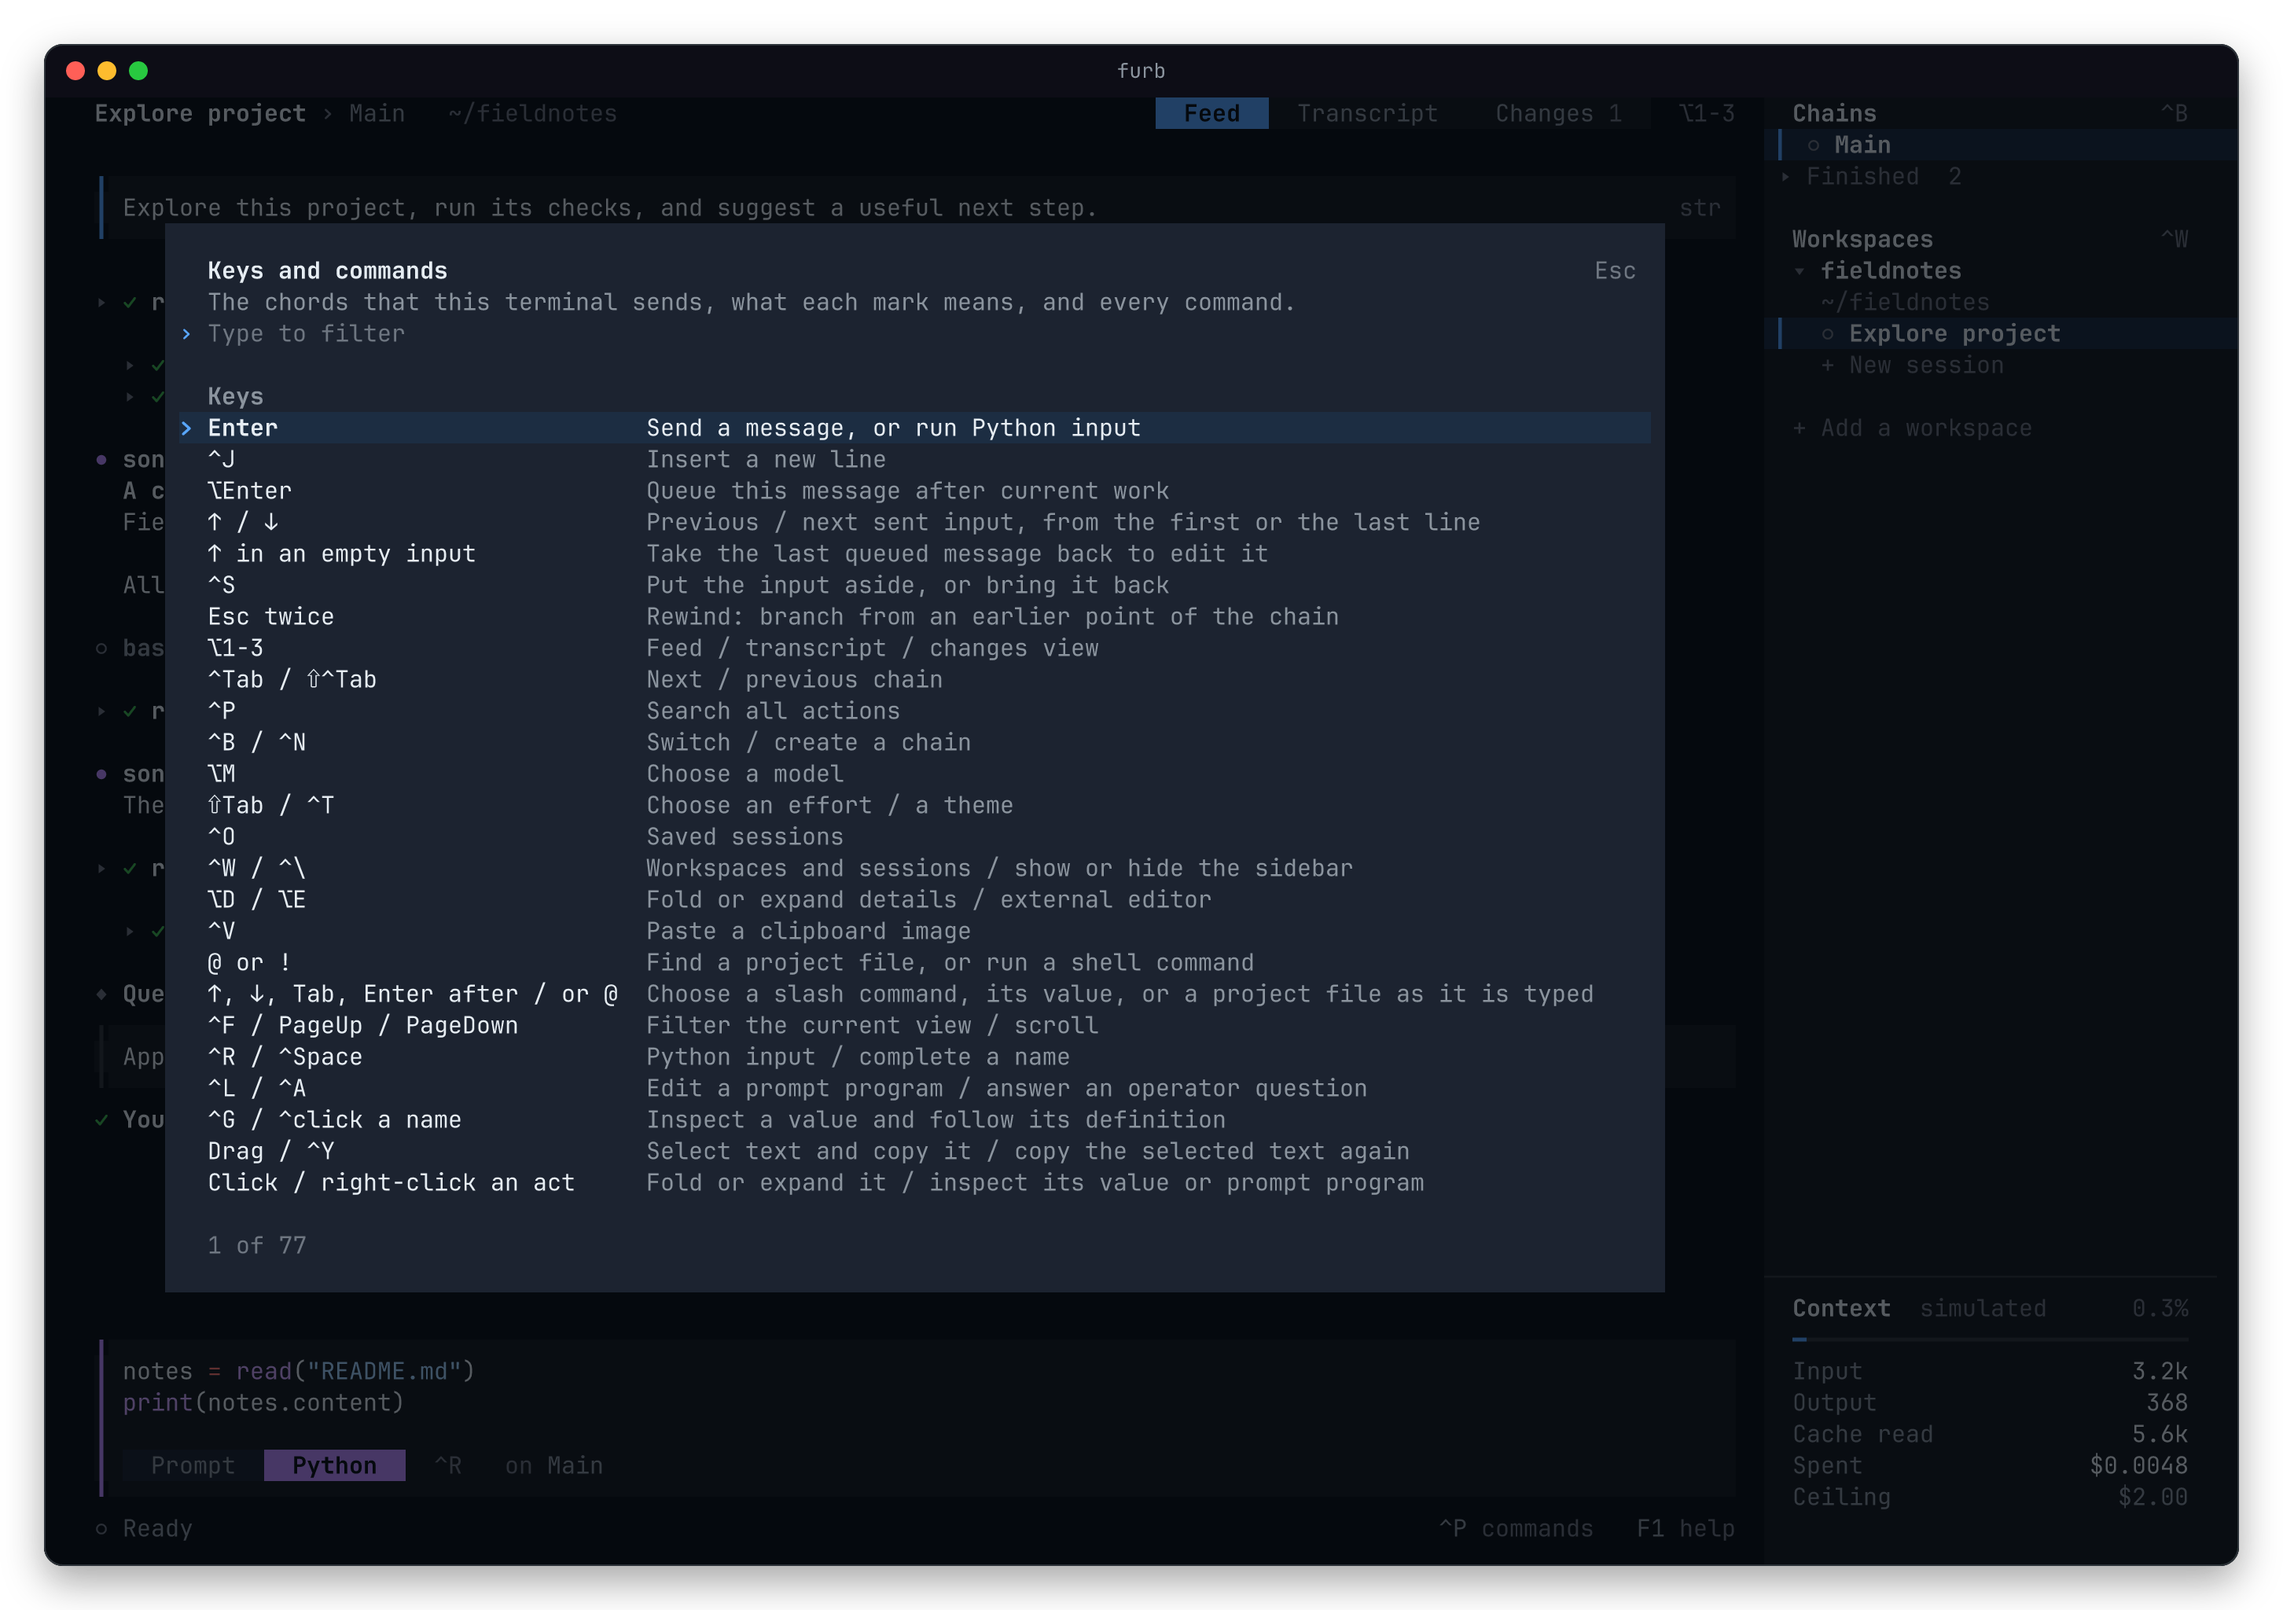
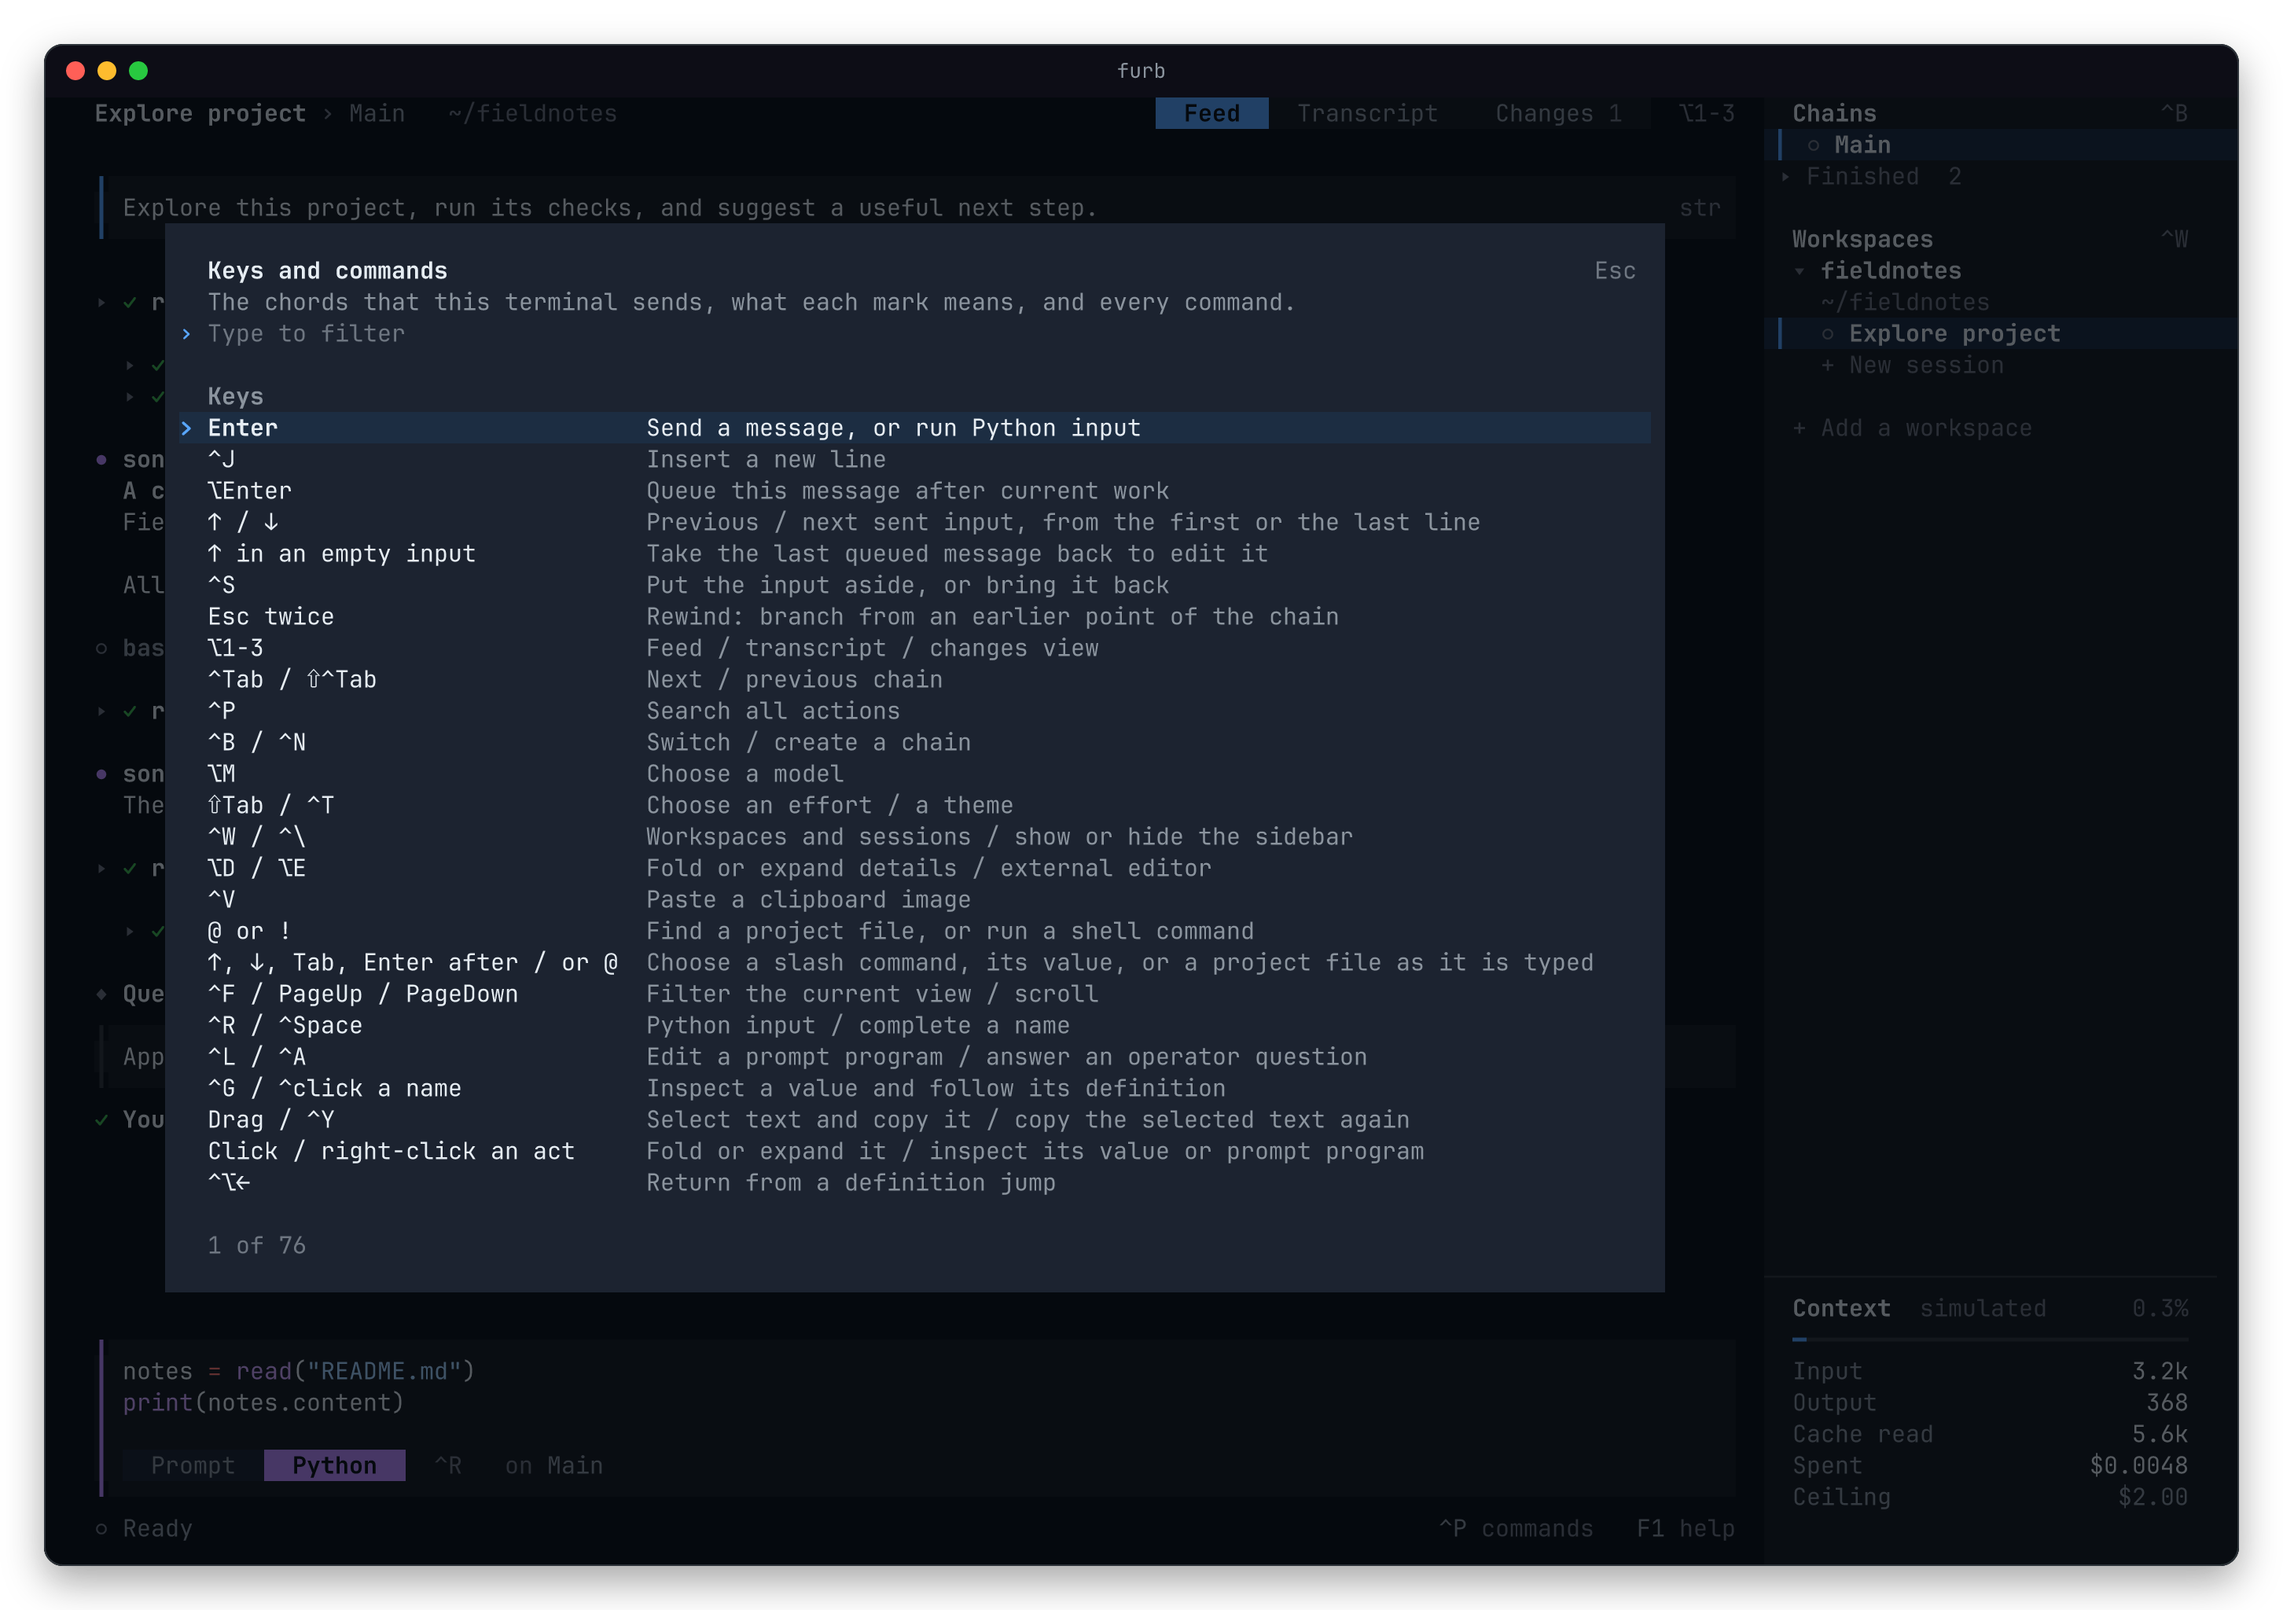
Fold the saved sessions of ⌃O into the workspaces of ⌃W
The picker of the workspaces now says of each session its state, the
time since its record was saved, its cost, and the size of its record,
which only the picker of ⌃O said. That picker, its builder in
sessions.ts, and its capture go. ⌃O opens the workspaces, as ⌃W does,
through one more press of the same binding.

The help and the picker of the workspaces are captured again. The tour
and the README say what the picker of the workspaces shows.

Claude-Session: https://claude.ai/code/session_01Luoyf6crfHuvNmZs94como

Changed region(s): [[0.093, 0.5, 0.7128, 0.75]]

diff --git a/tui/src/app.ts b/tui/src/app.ts
@@ -35,7 +35,7 @@ import { conversation } from "./conversation.ts";
 import { externalEditor, openFile } from "./editor.ts";
 import type { Extensions } from "./extensions.ts";
 import { shortenHome, shortenHomes } from "./files.ts";
-import { clip, count, dollars, elapsed, graphemes, kibibytes, modelName, share } from "./format.ts";
+import { ago, clip, count, dollars, elapsed, graphemes, kibibytes, modelName, share } from "./format.ts";
 import { type Action, bindings, chords, keys, presses, shown } from "./keys.ts";
 import { loadParsers } from "./parsers.ts";
 import {
@@ -51,7 +51,6 @@ import {
   views,
   working,
 } from "./session.ts";
-import { sessionChoices } from "./sessions.ts";
 import { publishShare } from "./share.ts";
 import {
   theme as c,
@@ -190,6 +189,20 @@ export interface AppOptions {
   quit(): void | Promise<void>;
   workspaces: Workspaces;
   extensions?: Extensions;
+}
+
+/** What the picker of the workspaces says of a session: its state, whether it is the current one, the time since
+ * its record was saved, its cost, and the size of its record. */
+export function sessionDetail(entry: SessionEntry, current: boolean): string {
+  return [
+    statusLabels[entry.status],
+    current ? "current" : "",
+    entry.modified ? ago(entry.modified) : "",
+    dollars(entry.cost ?? 0),
+    entry.size === undefined ? "" : kibibytes(entry.size),
+  ]
+    .filter(Boolean)
+    .join("   ");
 }
 
 /** An App on the session that the library selects, which a new App replaces for each session that the library
@@ -3136,7 +3149,7 @@ export class App {
             ...library.groups.flatMap((group) => [
               ...group.sessions.map((entry) => ({
                 label: entry.name,
-                detail: `${statusLabels[entry.status]}${library.current === entry ? "   current" : ""}`,
+                detail: sessionDetail(entry, library.current === entry),
                 status: entry.status,
                 heading: `${group.name}   ${shortenHome(group.directory)}`,
                 run: () => library.select(entry),
@@ -5364,7 +5377,6 @@ export class App {
     models: () => this.models(),
     effort: () => this.effortPicker(),
     themes: () => this.themes(),
-    sessions: () => void this.sessionPicker(),
     workspaces: () => void this.workspacePicker(),
     sidebar: () => this.options.workspaces.toggle(),
     details: () => this.details(),
@@ -5444,26 +5456,6 @@ export class App {
     w.save();
     this.render();
   }
-  /** The saved sessions of the workspace of the session, in a palette, which opens once the workspaces are read
-   * again. */
-  sessionPicker = (): Promise<void> => {
-    const library = this.options.workspaces;
-    return library
-      .refresh()
-      .then(() =>
-        this.openPalette(
-          "Sessions",
-          sessionChoices(
-            library.groupOf(),
-            (entry) => library.select(entry),
-            async () => {
-              await library.create();
-            },
-          ),
-        ),
-      )
-      .catch(this.report);
-  };
   /** The feed scrolled to the message of the operator before or after the top of the view. */
   private jumpMessage(step: number): void {
     const w = this.session;

diff --git a/tui/test/app.test.ts b/tui/test/app.test.ts
@@ -3,13 +3,12 @@ import { readFile, writeFile } from "node:fs/promises";
 import { dirname, join } from "node:path";
 import { createTestRenderer } from "@opentui/core/testing";
 import { until } from "../../bind/typescript/test/until.ts";
-import { App } from "../src/app.ts";
+import { App, sessionDetail } from "../src/app.ts";
 import { openEngine } from "../src/bridge.ts";
 import { demoLibrary, demoSession, removeDemoDirectories, seedDemo } from "../src/demo.ts";
 import { Preferences } from "../src/preferences.ts";
 import { Session } from "../src/session.ts";
-import { sessionChoices } from "../src/sessions.ts";
-import { Workspaces } from "../src/workspaces.ts";
+import { type SessionEntry, Workspaces } from "../src/workspaces.ts";
 import { composing } from "./composing.ts";
 import { idle } from "./idle.ts";
 import { transcriptOf } from "./transcript.ts";
@@ -317,14 +316,11 @@ test("resume preserves chains, programs, theme, and input drafts while unfinishe
   await library.refresh();
   // The replay of a saved record comes after the list, and the picker shows its state once it lands.
   await until(library, () => library.groups[0]?.sessions[0]?.status === "paused");
-  const choices = sessionChoices(
-    library.groups[0],
-    async () => {},
-    async () => {},
-  );
-  expect(choices[1]?.detail).toContain("KiB");
-  expect(choices[1]?.detail).toContain("Paused");
-  expect(choices).toHaveLength(2);
+  const saved = library.groups[0]?.sessions ?? [];
+  expect(saved).toHaveLength(1);
+  const detail = sessionDetail(saved[0] as SessionEntry, false);
+  expect(detail).toContain("KiB");
+  expect(detail).toContain("Paused");
   await library.dispose();
   const opened = await openEngine({ record, demo: true });
   const second = new Session(opened.engine, opened.host, true);

diff --git a/tui/src/keys.ts b/tui/src/keys.ts
@@ -96,12 +96,11 @@ export const keys = [
       { on: ["ctrl+t"], run: "themes", chord: "⌃T", command: "theme" },
     ],
   },
-  { chord: "⌃O", action: "Saved sessions", bindings: [{ on: ["ctrl+o"], run: "sessions" }] },
   {
     chord: "⌃W / ⌃\\",
     action: "Workspaces and sessions / show or hide the sidebar",
     bindings: [
-      { on: ["ctrl+w"], run: "workspaces", chord: "⌃W", command: "workspace" },
+      { on: ["ctrl+w", "ctrl+o"], run: "workspaces", chord: "⌃W", command: "workspace" },
       { on: ["ctrl+\\"], run: "sidebar", chord: "⌃\\", command: "sidebar" },
     ],
   },

diff --git a/tui/script/screenshots.ts b/tui/script/screenshots.ts
@@ -200,9 +200,6 @@ try {
   await show(session);
   await capture("21-paused-resume");
   app().closeOverlay();
-  await app().sessionPicker();
-  await capture("22-sessions");
-  app().closeOverlay();
   await session.host.resume();
   await session.refresh();
   app().rewind();

diff --git a/tui/README.md b/tui/README.md
@@ -20,9 +20,9 @@ a `.gitignore` that keeps it out of version control. Keep the `.jsonl`, `.sessio
 `.ui.json` files together. The last file keeps the view of the session as you left it. Keep its `.images` directory
 too when the session has image attachments. An unfinished session opens paused and offers a resume choice. The
 native engine replays completed work from the record.
-The picker shows state, save time, cost, and record size. It reads unfinished work through native replay
-without locking or changing the saved record. The record shows what remains unfinished. The list shows at once,
-and each saved session shows its state when its replay ends.
+⌃W lists the workspaces and their sessions, each with its state, save time, cost, and record size. It reads
+unfinished work through native replay without locking or changing the saved record. The record shows what remains
+unfinished. The list shows at once, and each saved session shows its state when its replay ends.
 
 ![The furb TUI in action](../docs/furb.gif)
 
@@ -64,7 +64,6 @@ reaches it from every terminal. F1 lists the chords that the terminal in use sen
 | ⌃B / ⌃N | Switch / create a chain |
 | ⌃M or ⌥M | Choose a model |
 | ⇧Tab / ⌃T | Choose an effort / a theme |
-| ⌃O | Saved sessions |
 | ⌃W / ⌃\\ | Workspaces and sessions / show or hide the sidebar |
 | ⌥D / ⌥E | Fold or expand details / external editor |
 | ⌃V | Paste a clipboard image |

diff --git a/docs/tui.md b/docs/tui.md
@@ -125,14 +125,11 @@ refuses shows the line and the reason.
 
 ![Gate findings](screenshots/20-gate-findings.png)
 
-## Paused work and saved sessions
+## Paused work
 
-A session that opens with unfinished work stays paused until you resume it. ⌃O lists the saved sessions of the
-workspace, with their state, the time since their last save, their cost, and their size.
+A session that opens with unfinished work stays paused until you resume it.
 
 ![Paused resume](screenshots/21-paused-resume.png)
-
-![Saved sessions](screenshots/22-sessions.png)
 
 ## Rewind
 
@@ -163,8 +160,8 @@ sessions, and a click on a session opens it. Open sessions keep running while an
 state of each session and workspace, from live work and saved records: blue for work, yellow for input needed or
 paused work, green for an unread completion, and red for an error. An open grey dot means ready or saved, and a click
 on a completed session clears its unread mark. A rung folds its program to one line and
-keeps its acts, a workspace folds to its name, and ⌃\ hides the sidebar. ⌃W opens the workspaces and sessions
-picker.
+keeps its acts, a workspace folds to its name, and ⌃\ hides the sidebar. ⌃W lists the workspaces and their
+sessions, each with its state, the time since its last save, its cost, and its size.
 
 ![Workspace tree](screenshots/28-workspace-tree.png)
 
